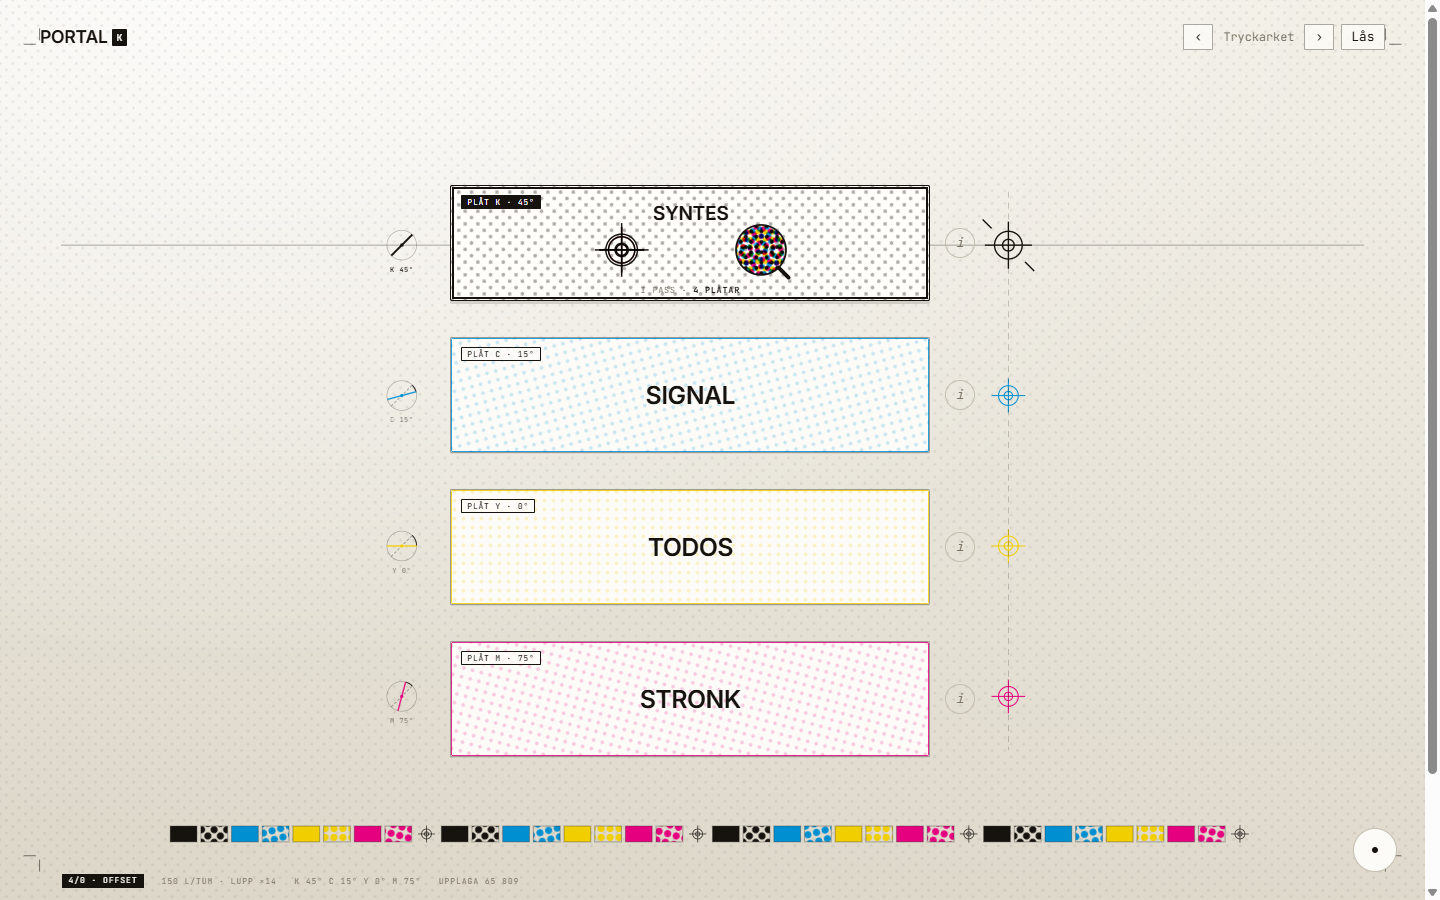
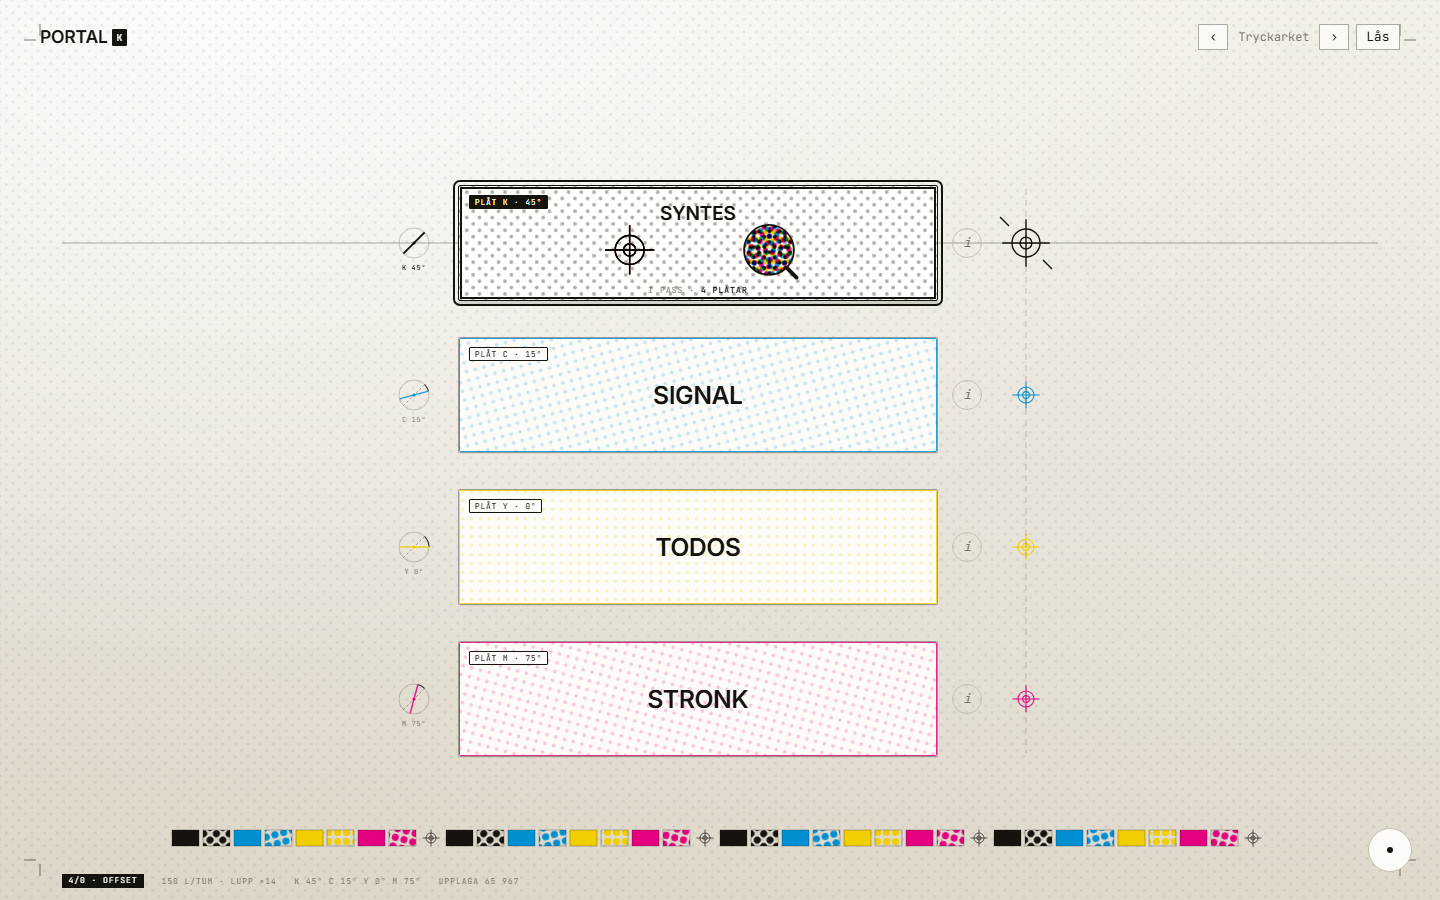
fix(tryckark): passkorsen blir ETT kors i pass
De fyra korsen i navets vy ritades med olika radie (K 11, färgerna 10),
så även i perfekt passning stack färgade ringar ut ur nyckelns — precis
det fel vyn ska bevisa är borta. Samma radie rakt igenom: ur pass är de
fyra kors, i pass är de ett.

Arkivbilden för navet togs om mot den rättade vyn.

diff --git a/src/styles/tryckark.js b/src/styles/tryckark.js
@@ -234,7 +234,7 @@ export default {
           <clipPath id="tk-s-lupp"><circle cx="${lx}" cy="${ly}" r="${lr}" /></clipPath>
         </defs>
         ${ordning.map(([, b, , , dx, dy]) => `<g class="kors" style="${off(dx, dy)};stroke:${TR_FARG[b]}">
-          ${trKors(cx, cy, b === 'K' ? 12 : 10)}</g>`).join('')}
+          ${trKors(cx, cy, 11)}</g>`).join('')}
         <g clip-path="url(#tk-s-lupp)">
           ${ordning.map(([, b, , , dx, dy]) => `<g class="lager" style="${off(dx, dy)}">
             <rect x="${lx - 26}" y="${ly - 26}" width="52" height="52" fill="url(#tk-s-${b})" /></g>`).join('')}
